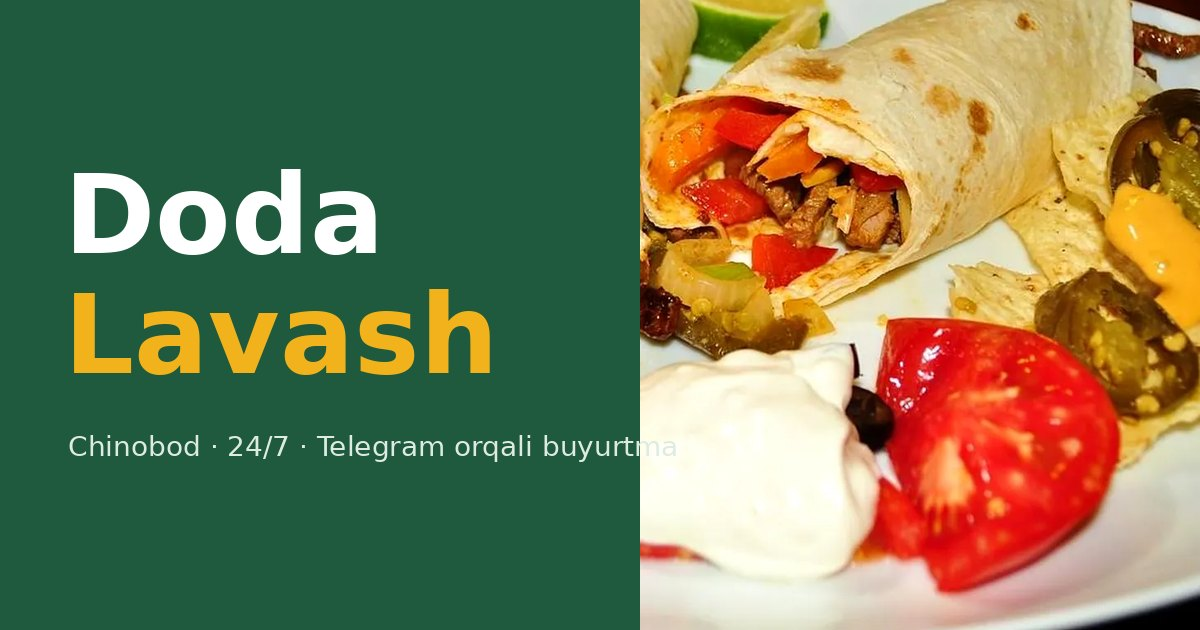
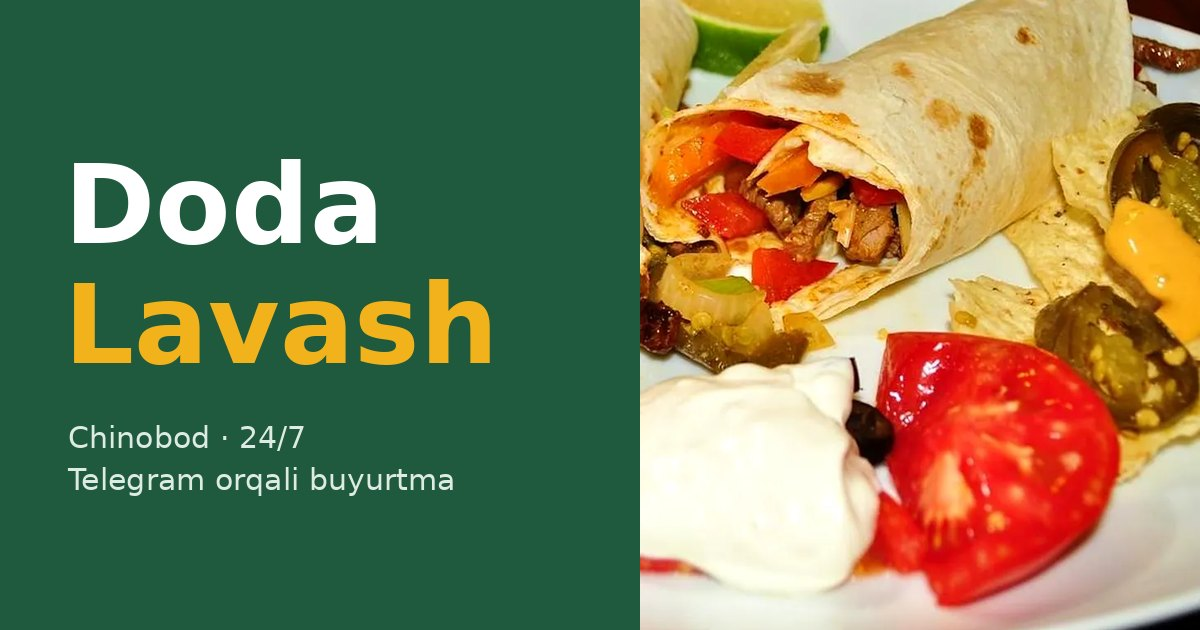
Update template README for zones, payments, price sheet; fix og.jpg text overflow
Claude-Session: https://claude.ai/code/session_011QgNr89G1zBevaA67TQ4Dh

diff --git a/shablon/README.md b/shablon/README.md
@@ -3,39 +3,68 @@
 `index.html` — saytning o'zi, `rasmlar/` — taom rasmlari, `og.jpg` — havola
 Telegram'da tashlanganda chiqadigan rasm. Server yoki dasturlash kerak emas.
 
-## Yangi mijoz uchun sayt tayyorlash (15–20 daqiqa)
+## Yangi mijoz uchun sayt tayyorlash (20–30 daqiqa)
 
 1. `shablon` papkasini nusxalang.
 2. Mijozning taom rasmlarini `rasmlar/` ga qo'ying. Kvadrat (1:1), kengligi
-   600–800px, WebP yoki JPG. Hero rasmi tik (4:5), masalan 960×1200.
-   [squoosh.app](https://squoosh.app) da siqib oling: har biri 50–100 KB.
-3. `index.html` dagi `CONFIG` blokini o'zgartiring: nom, telefon, Telegram,
-   ish vaqti, menyu, narxlar, `photo` maydonlari, manzil, xarita havolalari,
-   "Ko'p buyurtma qilinadi" (`hits`) va kombo (`combo`).
-4. `<head>` dagi `<title>`, `description` va `og:` teglarini yangilang.
-   `og.jpg` ni 1200×630 o'lchamda almashtiring.
+   600–800px, WebP yoki JPG. Hero rasmi tik (4:5), masalan 800×1000.
+   [squoosh.app](https://squoosh.app) da siqib oling: har biri 30–80 KB.
+3. `index.html` dagi `CONFIG` blokini to'ldiring:
+   - nom, telefon, `telegram` (buyurtmalar shu akkauntga keladi), `city`, `coords`
+   - ish vaqti (`hours`), yetkazish vaqti va hududlari (`delivery.zones`: narx, minimal buyurtma, qaysi summadan bepul)
+   - to'lov turlari (`payments`), aksiya (`promo`, tugash sanasi bilan), Instagram (`social`)
+   - menyu: narx, `photo`, `weight`, `tag` (`hit` | `new` | `spicy`), tugagan taom uchun `available: false`
+   - "Eng ko'p buyurtma qilinadi" (`hits`) va kombo (`combo`)
+   - `rating`, `reviewsCount`, `reviews`: biznesning **Google'dagi haqiqiy** reytingi va
+     sharhlaridan qo'lda ko'chiring. O'ylab topilgan sharh qo'ymang: bu ma'lumot
+     Google'ga ham yuboriladi.
+   - `maker`: o'zingizning ismingiz va Telegram havolangiz (saytning pastida chiqadi)
+4. `<head>` dagi `<title>`, `description` va `og:` teglarini yangilang. `og:image`
+   to'liq manzil bo'lsin (`https://domen.uz/og.jpg`), rasm 1200×630.
+   Ish vaqti 24/7 bo'lmasa, `eyebrow` va `og:title` dagi "kechayu kunduz / 24/7" ni ham o'zgartiring.
 5. `design` maydonida dizaynni tanlang: `yashil`, `olov` yoki `rishton`.
+   `<head>` dagi shriftlar havolasida faqat shu dizayn shriftlarini qoldiring (sayt tezroq ochiladi).
 6. Mijozga topshirishdan oldin yuqoridagi "Dizayn / UZ·RU" chiziqni
    (`<div class="demo">`) o'chiring yoki faqat til tugmalarini qoldiring.
 7. Netlify yoki Cloudflare Pages'ga yuklang, domen ulang, Google Business
    profilidagi "Website" maydoniga havolani qo'ying.
 
-Bitta fayl kerak bo'lsa (Telegram'da yuborish, internetsiz ko'rsatish):
+## Buyurtma qanday keladi
+
+Mijoz savatchada "Telegram'ga yuborish" ni bosadi. Kafening Telegram chati
+buyurtma matni yozilgan holda ochiladi (raqam, taomlar, jami, to'lov, manzil),
+mijoz faqat "Yuborish" ni bosadi. Buyurtmalar uchun alohida akkaunt oching:
+Telegram Business'da avtomatik salom va tez javoblar ("#K3F2 qabul qilindi,
+30 daqiqada") sozlash mumkin.
+
+## Narxlarni egasi o'zi o'zgartirishi (ixtiyoriy)
+
+Google Sheets'da `id`, `price`, `available` ustunli jadval oching (id: `l1`,
+`b2`...). Fayl → Ulashish → Internetda e'lon qilish → CSV. Havolani
+`pricesCsv` ga qo'ying. Sayt ochilganda narxlar va "tugagan" belgilari shu
+jadvaldan olinadi. Jadval ochilmasa, fayldagi narxlar ishlatiladi.
+
+## Bitta fayl (Telegram'da yuborish, internetsiz ko'rsatish)
 
 ```
 python3 bitta-fayl.py        # -> dist/index.html, rasmlar ichiga joylangan
 ```
 
+Bu faqat namoyish uchun. Haqiqiy saytda rasmlar alohida fayl bo'lib tursin.
+
 ## Nimalar bor
 
 - 3 ta dizayn, har biri kunduzgi va tungi rejimda
 - O'zbek va rus tili
-- Katta hero rasm, "Ko'p buyurtma qilinadi" lentasi, kombo taklif
+- Katta hero rasm, "Eng ko'p buyurtma qilinadi" lentasi, kombo taklif, aksiya chizig'i
 - Rasmli menyu; taom bosilsa katta rasm va miqdor tanlash oynasi ochiladi
-- Savatcha, yetkazish narxi hisobi, buyurtmani Telegram'ga yuborish
+- Savatcha: yetkazish hududlari, minimal buyurtma, bepul yetkazish chegarasi,
+  to'lov turi (naqd, Click, Payme, karta), qaytim, mo'ljal
+- Buyurtma kafe chatiga tayyor matn bo'lib boradi, buyurtma raqami bilan
+- Kafe yopiq bo'lsa, buyurtma "oldindan buyurtma" bo'lib boradi
 - "Hozir ochiq / Yopiq" belgisi (Toshkent vaqti bo'yicha)
 - Google sharhlari bloki va "Sharh qoldiring" tugmasi
-- Google Maps va Yandex Maps tugmalari
+- Marshrut, Google Maps va Yandex Maps tugmalari
 - Google uchun Schema.org: restoran, menyu va narxlar avtomatik qo'shiladi
 
 ## Namuna rasmlar haqida
@@ -46,8 +75,6 @@ foydalanish uchun muallif nomini ko'rsatish shart. Shu sababli ular saytning
 pastidagi "Rasmlar manbasi" bo'limida (`CONFIG.photoCredits`) yozilgan.
 
 Haqiqiy mijozga topshirishda **mijozning o'z rasmlarini** qo'ying: menyudagi
-taom mijoz oladigan taomga o'xshashi kerak. Keyin `photoCredits: []` qilib
+taom mijoz oladigan taomga o'xshashi kerak. Telefonda 30 daqiqalik suratga
+olishni xizmatingizga qo'shishingiz mumkin. Keyin `photoCredits: []` qilib
 bo'shating.
-
-`googleReview` maydoniga biznesning haqiqiy sharh havolasini qo'ying
-(Google Business Profile → "Sharh so'rash" → havolani nusxalash).
